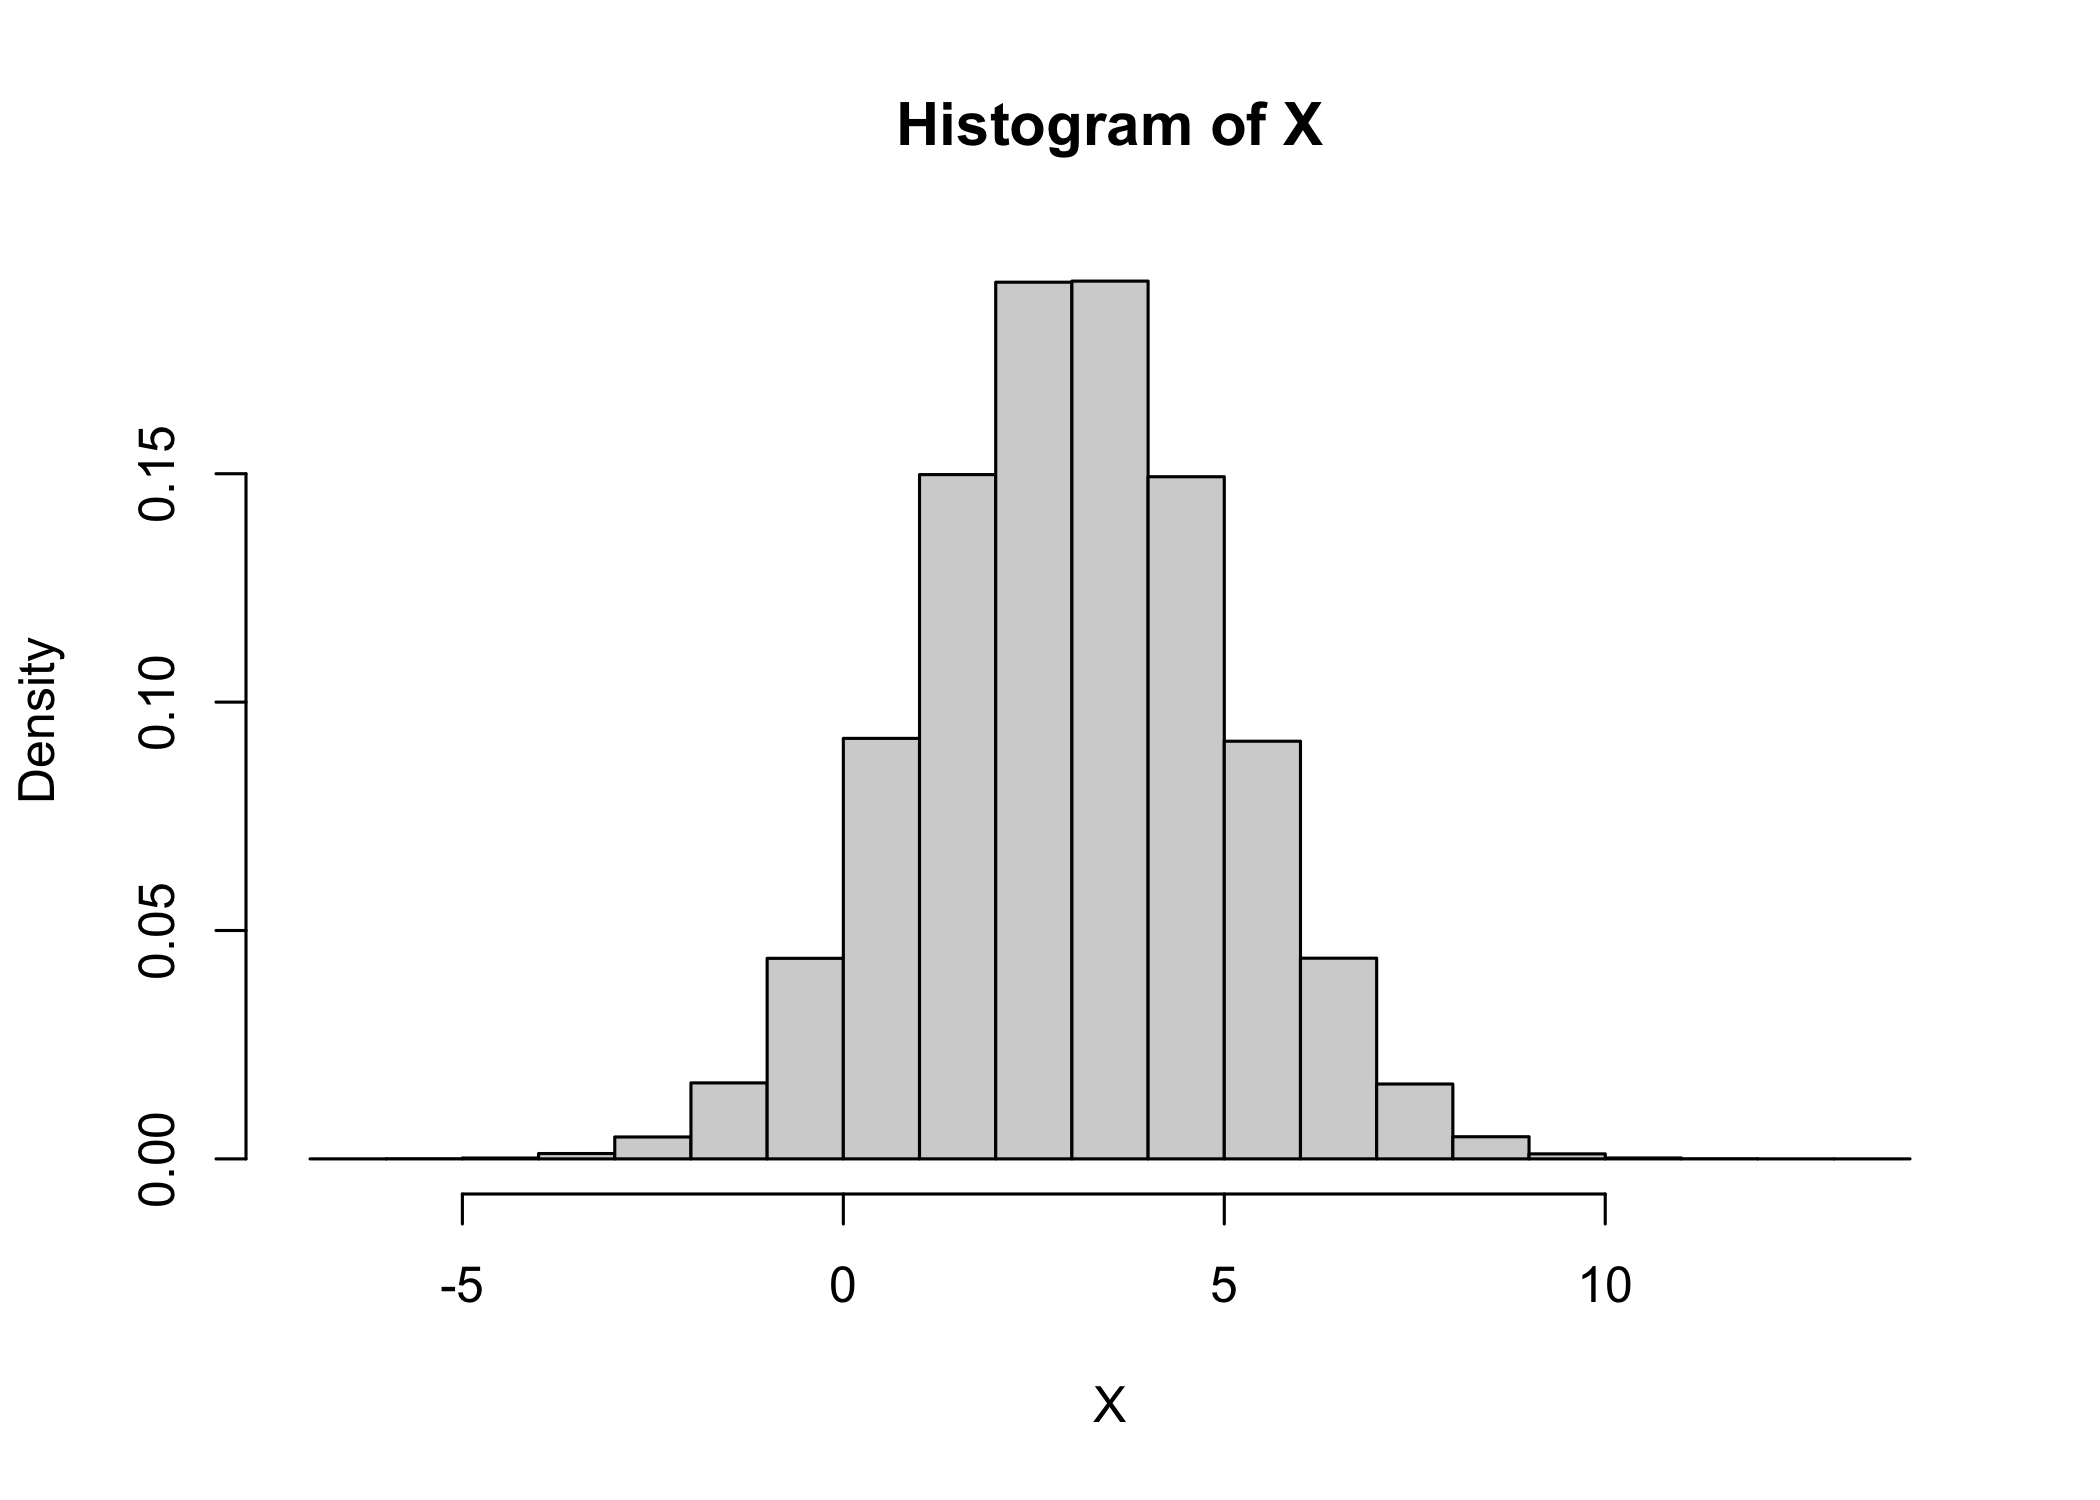
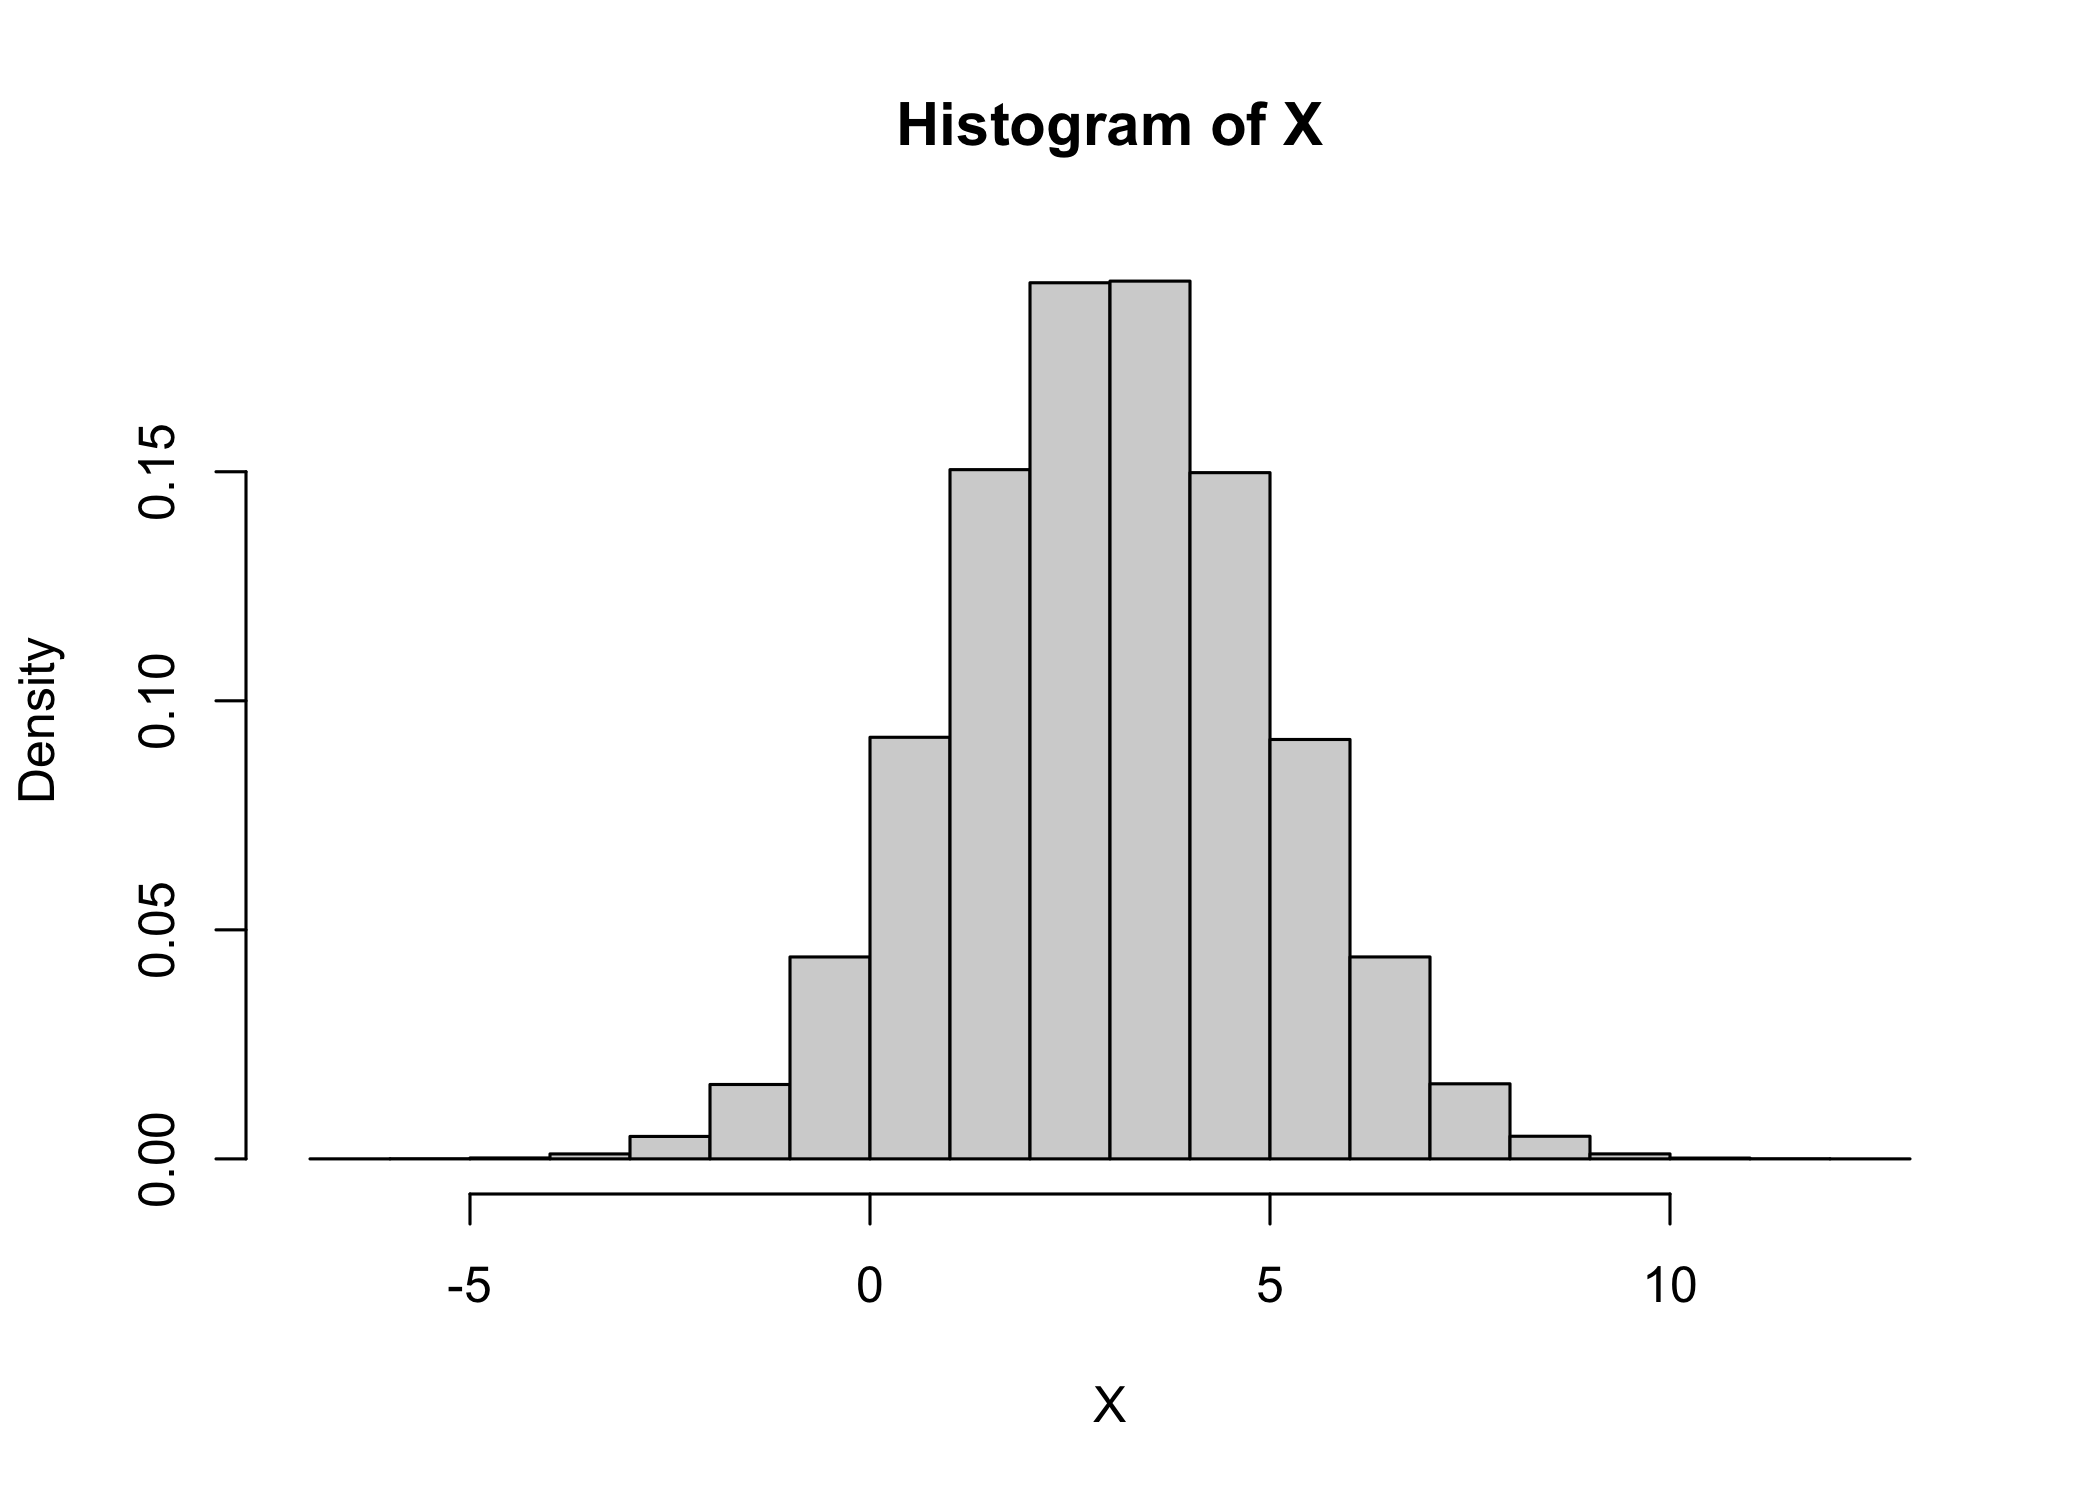
simulações: cobertura de intervalos de confiança (aula 07), LGN e TCL (aula 10)
Simulações interativas em OJS no fim das aulas, com o código equivalente
em R; o texto que as apresenta foi escrito com auxílio do Claude e está
numa caixa nota-ia. Extensão Course Notes atualizada para a v0.2.2
(só a pasta interativo/ dos trabalhos vai para o site; os CSVs brutos
das listas deixam de ser publicados).

diff --git a/_extensions/felipelmc/course-notes/theme/_notes-rules.scss b/_extensions/felipelmc/course-notes/theme/_notes-rules.scss
@@ -500,7 +500,9 @@ mjx-container[display="true"], .math.display {
 #quarto-sidebar .sidebar-item-section > .sidebar-item-container .sidebar-item-text,
 #quarto-sidebar .sidebar-section-item .sidebar-item-text {
   @include cn-eyebrow;
-  font-size: 0.7rem;
+  font-size: 0.68rem;
+  letter-spacing: 0.05em;
+  line-height: 1.35;
 }
 #quarto-sidebar .sidebar-item-section {
   margin-top: 0.9rem;
@@ -713,6 +715,19 @@ form[class^="oi-"] button:hover { border-color: $cn-accent; color: $cn-accent; }
   border: 0;
 }
 .cn-slides figcaption { margin-top: 0.5rem; }
+
+// ------------------------------------------------------------------ listas de definição (ex.: Professores, Período)
+main.content dl > dt {
+  @include cn-eyebrow;
+  font-size: 0.72rem;
+  margin-top: 1rem;
+  margin-bottom: 0.15rem;
+}
+main.content dl > dt:first-child { margin-top: 0; }
+main.content dl > dd {
+  margin-left: 0;
+  margin-bottom: 0.25rem;
+}
 
 // ------------------------------------------------------------------ página inicial do curso
 .cn-course-meta {

diff --git a/_extensions/felipelmc/course-notes/tools/check.py b/_extensions/felipelmc/course-notes/tools/check.py
@@ -152,9 +152,16 @@ def check_pre() -> None:
             continue
         with open(p, encoding="utf-8", errors="replace") as f:
             linhas = f.read().splitlines()
+        em_codigo = p.endswith(".R")
         for i, l in enumerate(linhas, 1):
-            if p.endswith(".qmd") and re.search(r"^:::+\s*\{\s*#refs\b", l.strip()):
-                erro(f"{p}:{i}: `::: {{#refs}}` não é permitido (as referências saem no fim de cada página)")
+            if p.endswith(".qmd"):
+                if re.search(r"^:::+\s*\{\s*#refs\b", l.strip()):
+                    erro(f"{p}:{i}: `::: {{#refs}}` não é permitido (as referências saem no fim de cada página)")
+                if l.lstrip().startswith("```"):
+                    em_codigo = not em_codigo and bool(re.match(r"\s*```+\s*\{r", l))
+                    continue
+            if not em_codigo or l.lstrip().startswith("#"):
+                continue  # caminhos só importam em código que roda; comentários ficam de fora
             if win.search(l) or "/Users/" in l or "OneDrive" in l or "C:\\" in l:
                 erro(f"{p}:{i}: caminho absoluto ou do Windows: {l.strip()[:90]}")
 
